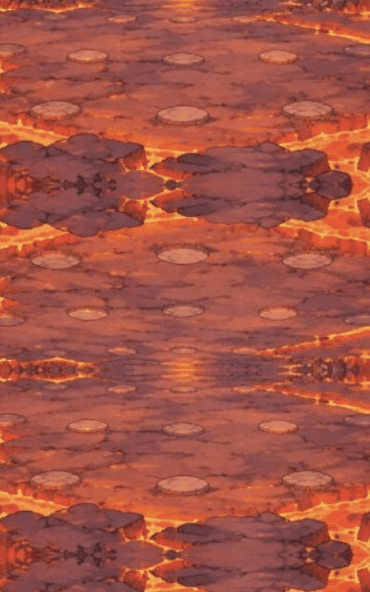
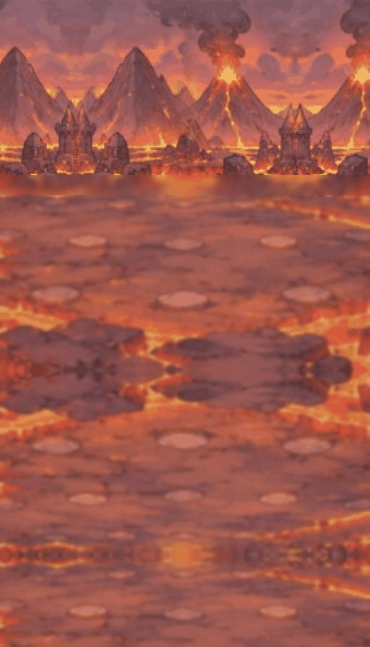
背景の絵から奥の城を消して景色を残し、飛び石・真ん中のマスをステージの石にする
Claude-Session: https://claude.ai/code/session_01NLXjHKkwQcWRgE1A8ZMVWa

diff --git a/js/ui/precache.js b/js/ui/precache.js
@@ -1,2 +1,2 @@
-self.CF_CACHE_VERSION="4372f12f24a9f2ce";
-self.CF_ASSETS=["index.html","manifest.webmanifest","css/accessibility.css","css/account.css","css/battle.css","css/beast.css","css/card-base.css","css/card-zoom.css","css/chat.css","css/coin-toss.css","css/components.css","css/deck.css","css/experience.css","css/finishing-art.css","css/fit.css","css/help-guide.css","css/hologram.css","css/home-tabs.css","css/home.css","css/kingdom.css","css/layout.css","css/mana-growth.css","css/materials.css","css/motion.css","css/mp.css","css/polish.css","css/rank-frames.css","css/rank-rewards.css","css/rarity-assets.css","css/rarity-fx.css","css/settings.css","css/stage.css","css/step5.css","css/style.css","css/text-fit.css","css/theme.css","css/tokens.css","css/tutorial.css","css/weather.css","js/game/Card.js","js/game/Castle.js","js/game/Game.js","js/game/Monster.js","js/game/Player.js","js/game/Road.js","js/game/Setup.js","js/game/Soldier.js","js/game/Stage.js","js/game/Weather.js","js/game/strategies.js","js/game/visibility.js","js/main.js","js/ui/Accessibility.js","js/ui/Account.js","js/ui/AccountPanel.js","js/ui/Animations.js","js/ui/BattleLayout.js","js/ui/Card3D.js","js/ui/CardGuide.js","js/ui/CardInfo.js","js/ui/CardRelief.js","js/ui/CardZoom.js","js/ui/ChatView.js","js/ui/CollectionView.js","js/ui/Cosmetics.js","js/ui/DebugPanel.js","js/ui/DeckEditor.js","js/ui/DeckPreview.js","js/ui/DeckStore.js","js/ui/HandView.js","js/ui/HelpView.js","js/ui/Hologram.js","js/ui/Home.js","js/ui/LocalSetup.js","js/ui/MatchStats.js","js/ui/MaterialSkin.js","js/ui/MissionView.js","js/ui/Music.js","js/ui/OnlineClient.js","js/ui/ProfileView.js","js/ui/ProgressPanel.js","js/ui/Progression.js","js/ui/RankEmblem.js","js/ui/RankRewardsView.js","js/ui/RankedView.js","js/ui/Renderer.js","js/ui/RoomView.js","js/ui/Session.js","js/ui/Settings.js","js/ui/SocialView.js","js/ui/Sound.js","js/ui/Targeting.js","js/ui/Tutorial.js","js/ui/UpgradePanel.js","js/ui/WeatherView.js","js/ui/art.js","js/ui/cardFrame.js","js/ui/cardView.js","js/ui/config.js","js/ui/handOrder.js","js/ui/look.js","js/ui/motion.js","js/ui/musicScene.js","js/ui/pills.js","js/ui/profileArt.js","js/ui/rarity.js","js/ui/skinArt.js","js/ui/stories.js","js/ui/syncCheck.js","js/ui/text.js","data/cards.json","data/castles.json","data/decks.json","data/gacha.json","data/missions.json","data/modes.json","data/monsters.json","data/profile.json","data/progression.json","data/ranks.json","data/rarities.json","data/rules.json","data/seasons.json","data/shop.json","data/stages.json","data/stamps.json","data/upgrades.json","data/weather.json","assets/asset-manifest.json","assets/bg/board-meadow-compact.png","assets/bg/board-meadow.png","assets/bg/board.png","assets/bg/home-castle.png","assets/bg/kingdom-meadow.png","assets/bg/kingdom-valley.png","assets/bg/stage-dark-forest.png","assets/bg/stage-ice.png","assets/bg/stage-lava.png","assets/bg/stage-meadow.png","assets/bg/stage-ruins.png","assets/bg/title-compact.png","assets/bg/title.png","assets/cards/card-absolute-zero.png","assets/cards/card-adapt.png","assets/cards/card-antidote.png","assets/cards/card-apocalypse.png","assets/cards/card-apprentice-archer.png","assets/cards/card-apprentice-mage.png","assets/cards/card-archer.png","assets/cards/card-archmage.png","assets/cards/card-barrier.png","assets/cards/card-beast-bat.png","assets/cards/card-beast-demon-king.png","assets/cards/card-beast-demon.png","assets/cards/card-beast-dragon.png","assets/cards/card-beast-ghost.png","assets/cards/card-beast-goblin.png","assets/cards/card-beast-golem.png","assets/cards/card-beast-mimic.png","assets/cards/card-beast-skeleton.png","assets/cards/card-beast-slime.png","assets/cards/card-beast-treant.png","assets/cards/card-beast-vampire.png","assets/cards/card-big-shield.png","assets/cards/card-big-thunder.png","assets/cards/card-blessing.png","assets/cards/card-bolt.png","assets/cards/card-cavalry.png","assets/cards/card-coin-pouch.png","assets/cards/card-death-mist.png","assets/cards/card-decoy.png","assets/cards/card-deep-freeze.png","assets/cards/card-dragon-knight.png","assets/cards/card-earth-hammer.png","assets/cards/card-earth-king.png","assets/cards/card-earth-spirit.png","assets/cards/card-fire-king.png","assets/cards/card-fire-spirit.png","assets/cards/card-fireball.png","assets/cards/card-flame-sword.png","assets/cards/card-frost-breath.png","assets/cards/card-frozen-world.png","assets/cards/card-gate.png","assets/cards/card-giant.png","assets/cards/card-glacier.png","assets/cards/card-god-shield.png","assets/cards/card-god-sword.png","assets/cards/card-goddess.png","assets/cards/card-gold-coin.png","assets/cards/card-gold-vein.png","assets/cards/card-great-earth-spirit.png","assets/cards/card-great-fire-spirit.png","assets/cards/card-great-heal.png","assets/cards/card-great-water-spirit.png","assets/cards/card-great-wind-spirit.png","assets/cards/card-heal.png","assets/cards/card-heavy.png","assets/cards/card-hero.png","assets/cards/card-holy-light.png","assets/cards/card-holy-shield.png","assets/cards/card-holy-sword.png","assets/cards/card-infantry.png","assets/cards/card-inferno.png","assets/cards/card-iron-sword.png","assets/cards/card-judgment.png","assets/cards/card-king-treasure.png","assets/cards/card-knight.png","assets/cards/card-longbowman.png","assets/cards/card-mage.png","assets/cards/card-magic-sword.png","assets/cards/card-mana-crystal.png","assets/cards/card-mana-drop.png","assets/cards/card-mana-shard.png","assets/cards/card-mana-spring.png","assets/cards/card-meteor.png","assets/cards/card-minor-heal.png","assets/cards/card-paladin.png","assets/cards/card-plague.png","assets/cards/card-poison-mist.png","assets/cards/card-prayer.png","assets/cards/card-raijin.png","assets/cards/card-reflect.png","assets/cards/card-sage.png","assets/cards/card-sandbag.png","assets/cards/card-scout.png","assets/cards/card-shield.png","assets/cards/card-sky-archer.png","assets/cards/card-sniper.png","assets/cards/card-sorcerer.png","assets/cards/card-spearman.png","assets/cards/card-starfall.png","assets/cards/card-steel-shield.png","assets/cards/card-stone-wall.png","assets/cards/card-thief.png","assets/cards/card-thunder.png","assets/cards/card-toxic-rain.png","assets/cards/card-treasure.png","assets/cards/card-venom.png","assets/cards/card-wall.png","assets/cards/card-water-king.png","assets/cards/card-water-spear.png","assets/cards/card-water-spirit.png","assets/cards/card-weather-call.png","assets/cards/card-wind-bow.png","assets/cards/card-wind-king.png","assets/cards/card-wind-spirit.png","assets/cards/card-world-tree-dew.png","assets/cards/frame-beast.png","assets/cards/frame-common.png","assets/cards/frame-epic.png","assets/cards/frame-legendary.png","assets/cards/frame-rare.png","assets/cards/frame-skin-bronze.png","assets/cards/frame-skin-champion.png","assets/cards/frame-skin-diamond.png","assets/cards/frame-skin-gold.png","assets/cards/frame-skin-iron.png","assets/cards/frame-skin-master.png","assets/cards/frame-skin-platinum.png","assets/cards/frame-skin-silver.png","assets/cards/frame-special.png","assets/cards/frame-uncommon.png","assets/cards/relief/frame-beast-raised.png","assets/cards/relief/frame-beast-relief.png","assets/cards/relief/frame-common-raised.png","assets/cards/relief/frame-common-relief.png","assets/cards/relief/frame-epic-raised.png","assets/cards/relief/frame-epic-relief.png","assets/cards/relief/frame-legendary-raised.png","assets/cards/relief/frame-legendary-relief.png","assets/cards/relief/frame-rare-raised.png","assets/cards/relief/frame-rare-relief.png","assets/cards/relief/frame-skin-bronze-raised.png","assets/cards/relief/frame-skin-bronze-relief.png","assets/cards/relief/frame-skin-champion-raised.png","assets/cards/relief/frame-skin-champion-relief.png","assets/cards/relief/frame-skin-diamond-raised.png","assets/cards/relief/frame-skin-diamond-relief.png","assets/cards/relief/frame-skin-gold-raised.png","assets/cards/relief/frame-skin-gold-relief.png","assets/cards/relief/frame-skin-iron-raised.png","assets/cards/relief/frame-skin-iron-relief.png","assets/cards/relief/frame-skin-master-raised.png","assets/cards/relief/frame-skin-master-relief.png","assets/cards/relief/frame-skin-platinum-raised.png","assets/cards/relief/frame-skin-platinum-relief.png","assets/cards/relief/frame-skin-silver-raised.png","assets/cards/relief/frame-skin-silver-relief.png","assets/cards/relief/frame-special-raised.png","assets/cards/relief/frame-special-relief.png","assets/cards/relief/frame-uncommon-raised.png","assets/cards/relief/frame-uncommon-relief.png","assets/cards/window-beast.png","assets/cards/window-common.png","assets/cards/window-epic.png","assets/cards/window-legendary.png","assets/cards/window-rare.png","assets/cards/window-special.png","assets/cards/window-uncommon.png","assets/castles/barracks-blue-damaged-1.png","assets/castles/barracks-blue-damaged-2.png","assets/castles/barracks-blue-damaged-3.png","assets/castles/barracks-blue.png","assets/castles/barracks-orange-damaged-1.png","assets/castles/barracks-orange-damaged-2.png","assets/castles/barracks-orange-damaged-3.png","assets/castles/barracks-orange.png","assets/castles/castle-blue-damaged-1.png","assets/castles/castle-blue-damaged-2.png","assets/castles/castle-blue-damaged-3.png","assets/castles/castle-blue-ruined.png","assets/castles/castle-blue.png","assets/castles/castle-orange-damaged-1.png","assets/castles/castle-orange-damaged-2.png","assets/castles/castle-orange-damaged-3.png","assets/castles/castle-orange-ruined.png","assets/castles/castle-orange.png","assets/castles/fortress-blue-damaged-1.png","assets/castles/fortress-blue-damaged-2.png","assets/castles/fortress-blue-damaged-3.png","assets/castles/fortress-blue.png","assets/castles/fortress-orange-damaged-1.png","assets/castles/fortress-orange-damaged-2.png","assets/castles/fortress-orange-damaged-3.png","assets/castles/fortress-orange.png","assets/castles/tower-blue-damaged-1.png","assets/castles/tower-blue-damaged-2.png","assets/castles/tower-blue-damaged-3.png","assets/castles/tower-blue.png","assets/castles/tower-orange-damaged-1.png","assets/castles/tower-orange-damaged-2.png","assets/castles/tower-orange-damaged-3.png","assets/castles/tower-orange.png","assets/frames/rank-frame-bronze.png","assets/frames/rank-frame-champion.png","assets/frames/rank-frame-diamond.png","assets/frames/rank-frame-gold.png","assets/frames/rank-frame-iron.png","assets/frames/rank-frame-master.png","assets/frames/rank-frame-platinum.png","assets/frames/rank-frame-silver.png","assets/fx/dust.png","assets/fx/evolve-1.png","assets/fx/evolve-2.png","assets/fx/evolve-3.png","assets/fx/explosion.png","assets/fx/fireball.png","assets/fx/fusion.png","assets/fx/heal.png","assets/fx/ice.png","assets/fx/lightning.png","assets/fx/lucky-reward.png","assets/fx/poison.png","assets/profiles/archer.png","assets/profiles/hero.png","assets/profiles/infantry.png","assets/profiles/knight.png","assets/profiles/mage.png","assets/profiles/spearman.png","assets/ranks/rank-bronze.png","assets/ranks/rank-champion.png","assets/ranks/rank-diamond.png","assets/ranks/rank-gold.png","assets/ranks/rank-iron.png","assets/ranks/rank-master.png","assets/ranks/rank-platinum.png","assets/ranks/rank-silver.png","assets/skins/back-crimson-raised.png","assets/skins/back-crimson.png","assets/skins/back-forest-raised.png","assets/skins/back-forest.png","assets/skins/back-gold-raised.png","assets/skins/back-gold.png","assets/skins/back-rank-bronze-raised.png","assets/skins/back-rank-bronze.png","assets/skins/back-rank-champion-raised.png","assets/skins/back-rank-champion.png","assets/skins/back-rank-diamond-raised.png","assets/skins/back-rank-diamond.png","assets/skins/back-rank-gold-raised.png","assets/skins/back-rank-gold.png","assets/skins/back-rank-iron-raised.png","assets/skins/back-rank-iron.png","assets/skins/back-rank-master-raised.png","assets/skins/back-rank-master.png","assets/skins/back-rank-platinum-raised.png","assets/skins/back-rank-platinum.png","assets/skins/back-rank-silver-raised.png","assets/skins/back-rank-silver.png","assets/skins/back-royal-raised.png","assets/skins/back-royal.png","assets/skins/castle-crimson.png","assets/skins/castle-forest.png","assets/skins/castle-frost.png","assets/skins/castle-gold.png","assets/skins/castle-shadow.png","assets/skins/fx-azure.png","assets/skins/fx-emerald.png","assets/skins/fx-gold.png","assets/skins/fx-violet.png","assets/skins/icon-dragon-knight.png","assets/skins/icon-giant.png","assets/skins/icon-paladin.png","assets/skins/icon-sage.png","assets/skins/icon-scout.png","assets/skins/icon-sniper.png","assets/skins/title-hunter.png","assets/skins/title-legend.png","assets/skins/title-lucky.png","assets/skins/title-rookie.png","assets/skins/title-wall.png","assets/skins/unit-crimson.png","assets/skins/unit-forest.png","assets/skins/unit-frost.png","assets/skins/unit-gold.png","assets/skins/unit-royal.png","assets/skins/unit-shadow.png","assets/skins/win-aurora.png","assets/skins/win-gold.png","assets/skins/win-sakura.png","assets/ui/app-icon-192.png","assets/ui/app-icon-512.png","assets/ui/app-icon-maskable-512.png","assets/ui/apple-touch-icon.png","assets/ui/banner-win.png","assets/ui/btn-blue.png","assets/ui/btn-cream.png","assets/ui/btn-green.png","assets/ui/btn-orange.png","assets/ui/btn-red.png","assets/ui/btn-round.png","assets/ui/button-end-turn.png","assets/ui/card-back.png","assets/ui/home/casual.png","assets/ui/home/catalog.png","assets/ui/home/deck.png","assets/ui/home/friend.png","assets/ui/home/gacha.png","assets/ui/home/mission.png","assets/ui/home/profile.png","assets/ui/home/rank.png","assets/ui/home/ranking.png","assets/ui/home/settings.png","assets/ui/home/shop.png","assets/ui/home/skin.png","assets/ui/icon-coin.png","assets/ui/icon-earth.png","assets/ui/icon-fire.png","assets/ui/icon-heart.png","assets/ui/icon-help.png","assets/ui/icon-kind-defense.png","assets/ui/icon-kind-soldier.png","assets/ui/icon-kind-spell.png","assets/ui/icon-kind-weapon.png","assets/ui/icon-kind-wild.png","assets/ui/icon-luck.png","assets/ui/icon-mode-local.png","assets/ui/icon-mode-online.png","assets/ui/icon-mode-solo.png","assets/ui/icon-mp.png","assets/ui/icon-rarity-common.png","assets/ui/icon-rarity-epic.png","assets/ui/icon-rarity-legendary.png","assets/ui/icon-rarity-rare.png","assets/ui/icon-rarity-special.png","assets/ui/icon-rarity-uncommon.png","assets/ui/icon-water.png","assets/ui/icon-wind.png","assets/ui/kingdom-crest.png","assets/ui/kingdom-parchment.png","assets/ui/kingdom-platform.png","assets/ui/kingdom-primary.png","assets/ui/kingdom-secondary.png","assets/ui/kingdom-wood.png","assets/ui/logo.png","assets/ui/natural/danger-40-left.png","assets/ui/natural/danger-40-middle.png","assets/ui/natural/danger-40-right.png","assets/ui/natural/danger-44-left.png","assets/ui/natural/danger-44-middle.png","assets/ui/natural/danger-44-right.png","assets/ui/natural/danger-72-left.png","assets/ui/natural/danger-72-middle.png","assets/ui/natural/danger-72-right.png","assets/ui/natural/frame.png","assets/ui/natural/leather-tile.png","assets/ui/natural/neutral-40-left.png","assets/ui/natural/neutral-40-middle.png","assets/ui/natural/neutral-40-right.png","assets/ui/natural/neutral-44-left.png","assets/ui/natural/neutral-44-middle.png","assets/ui/natural/neutral-44-right.png","assets/ui/natural/neutral-72-left.png","assets/ui/natural/neutral-72-middle.png","assets/ui/natural/neutral-72-right.png","assets/ui/natural/neutral-wide-full.png","assets/ui/natural/oak-tile.png","assets/ui/natural/paper-tile.png","assets/ui/natural/primary-40-left.png","assets/ui/natural/primary-40-middle.png","assets/ui/natural/primary-40-right.png","assets/ui/natural/primary-44-left.png","assets/ui/natural/primary-44-middle.png","assets/ui/natural/primary-44-right.png","assets/ui/natural/primary-72-left.png","assets/ui/natural/primary-72-middle.png","assets/ui/natural/primary-72-right.png","assets/ui/natural/primary-wide-full.png","assets/ui/natural/round-neutral.png","assets/ui/natural/round-selected.png","assets/ui/natural/selected-40-left.png","assets/ui/natural/selected-40-middle.png","assets/ui/natural/selected-40-right.png","assets/ui/natural/selected-44-left.png","assets/ui/natural/selected-44-middle.png","assets/ui/natural/selected-44-right.png","assets/ui/natural/selected-72-left.png","assets/ui/natural/selected-72-middle.png","assets/ui/natural/selected-72-right.png","assets/ui/panel-parchment.png","assets/ui/result-defeat.png","assets/ui/result-victory.png","assets/ui/sign-hp.png","assets/ui/stamps/again.png","assets/ui/stamps/gg.png","assets/ui/stamps/go.png","assets/ui/stamps/hello.png","assets/ui/stamps/nice.png","assets/ui/stamps/ouch.png","assets/ui/stamps/scared.png","assets/ui/stamps/smug.png","assets/ui/stamps/sorry.png","assets/ui/stamps/thanks.png","assets/ui/stamps/think.png","assets/ui/stamps/yay.png","assets/ui/tap-plate.png","assets/ui/title-castle-blue.png","assets/ui/title-castle-orange.png","assets/ui/title-infantry-orange.png","assets/ui/title-knight-blue.png","assets/ui/weather-coin-rain.png","assets/ui/weather-fog.png","assets/ui/weather-heavy-rain.png","assets/ui/weather-rain.png","assets/ui/weather-sandstorm.png","assets/ui/weather-storm.png","assets/ui/weather-sunny.png","assets/units/apprentice-archer-blue.png","assets/units/apprentice-archer-orange.png","assets/units/apprentice-mage-blue.png","assets/units/apprentice-mage-orange.png","assets/units/archer-blue.png","assets/units/archer-orange.png","assets/units/archmage-blue.png","assets/units/archmage-orange.png","assets/units/cavalry-blue.png","assets/units/cavalry-orange.png","assets/units/dragon-knight-blue.png","assets/units/dragon-knight-orange.png","assets/units/earth-spirit.png","assets/units/fire-spirit.png","assets/units/giant-blue.png","assets/units/giant-orange.png","assets/units/great-earth-spirit.png","assets/units/great-fire-spirit.png","assets/units/great-water-spirit.png","assets/units/great-wind-spirit.png","assets/units/heavy-blue.png","assets/units/heavy-orange.png","assets/units/hero-blue.png","assets/units/hero-orange.png","assets/units/infantry-blue.png","assets/units/infantry-orange.png","assets/units/knight-blue.png","assets/units/knight-orange.png","assets/units/longbowman-blue.png","assets/units/longbowman-orange.png","assets/units/mage-blue.png","assets/units/mage-orange.png","assets/units/monster-bat.png","assets/units/monster-demon-king.png","assets/units/monster-demon.png","assets/units/monster-dragon.png","assets/units/monster-ghost.png","assets/units/monster-goblin.png","assets/units/monster-golem.png","assets/units/monster-mimic.png","assets/units/monster-skeleton.png","assets/units/monster-slime.png","assets/units/monster-treant.png","assets/units/monster-vampire.png","assets/units/paladin-blue.png","assets/units/paladin-orange.png","assets/units/sage-blue.png","assets/units/sage-orange.png","assets/units/scout-blue.png","assets/units/scout-orange.png","assets/units/sky-archer-blue.png","assets/units/sky-archer-orange.png","assets/units/sniper-blue.png","assets/units/sniper-orange.png","assets/units/sorcerer-blue.png","assets/units/sorcerer-orange.png","assets/units/spearman-blue.png","assets/units/spearman-orange.png","assets/units/water-spirit.png","assets/units/wind-spirit.png"];
+self.CF_CACHE_VERSION="d608d57e7a2001c9";
+self.CF_ASSETS=["index.html","manifest.webmanifest","css/accessibility.css","css/account.css","css/battle.css","css/beast.css","css/card-base.css","css/card-zoom.css","css/chat.css","css/coin-toss.css","css/components.css","css/deck.css","css/experience.css","css/finishing-art.css","css/fit.css","css/help-guide.css","css/hologram.css","css/home-tabs.css","css/home.css","css/kingdom.css","css/layout.css","css/mana-growth.css","css/materials.css","css/motion.css","css/mp.css","css/polish.css","css/rank-frames.css","css/rank-rewards.css","css/rarity-assets.css","css/rarity-fx.css","css/settings.css","css/stage.css","css/step5.css","css/style.css","css/text-fit.css","css/theme.css","css/tokens.css","css/tutorial.css","css/weather.css","js/game/Card.js","js/game/Castle.js","js/game/Game.js","js/game/Monster.js","js/game/Player.js","js/game/Road.js","js/game/Setup.js","js/game/Soldier.js","js/game/Stage.js","js/game/Weather.js","js/game/strategies.js","js/game/visibility.js","js/main.js","js/ui/Accessibility.js","js/ui/Account.js","js/ui/AccountPanel.js","js/ui/Animations.js","js/ui/BattleLayout.js","js/ui/Card3D.js","js/ui/CardGuide.js","js/ui/CardInfo.js","js/ui/CardRelief.js","js/ui/CardZoom.js","js/ui/ChatView.js","js/ui/CollectionView.js","js/ui/Cosmetics.js","js/ui/DebugPanel.js","js/ui/DeckEditor.js","js/ui/DeckPreview.js","js/ui/DeckStore.js","js/ui/HandView.js","js/ui/HelpView.js","js/ui/Hologram.js","js/ui/Home.js","js/ui/LocalSetup.js","js/ui/MatchStats.js","js/ui/MaterialSkin.js","js/ui/MissionView.js","js/ui/Music.js","js/ui/OnlineClient.js","js/ui/ProfileView.js","js/ui/ProgressPanel.js","js/ui/Progression.js","js/ui/RankEmblem.js","js/ui/RankRewardsView.js","js/ui/RankedView.js","js/ui/Renderer.js","js/ui/RoomView.js","js/ui/Session.js","js/ui/Settings.js","js/ui/SocialView.js","js/ui/Sound.js","js/ui/Targeting.js","js/ui/Tutorial.js","js/ui/UpgradePanel.js","js/ui/WeatherView.js","js/ui/art.js","js/ui/cardFrame.js","js/ui/cardView.js","js/ui/config.js","js/ui/handOrder.js","js/ui/look.js","js/ui/motion.js","js/ui/musicScene.js","js/ui/pills.js","js/ui/profileArt.js","js/ui/rarity.js","js/ui/skinArt.js","js/ui/stories.js","js/ui/syncCheck.js","js/ui/text.js","data/cards.json","data/castles.json","data/decks.json","data/gacha.json","data/missions.json","data/modes.json","data/monsters.json","data/profile.json","data/progression.json","data/ranks.json","data/rarities.json","data/rules.json","data/seasons.json","data/shop.json","data/stages.json","data/stamps.json","data/upgrades.json","data/weather.json","assets/asset-manifest.json","assets/bg/board-meadow-compact.png","assets/bg/board-meadow.png","assets/bg/board.png","assets/bg/home-castle.png","assets/bg/kingdom-meadow.png","assets/bg/kingdom-valley.png","assets/bg/stage-dark-forest.png","assets/bg/stage-ice.png","assets/bg/stage-lava.png","assets/bg/stage-meadow.png","assets/bg/stage-ruins.png","assets/bg/title-compact.png","assets/bg/title.png","assets/cards/card-absolute-zero.png","assets/cards/card-adapt.png","assets/cards/card-antidote.png","assets/cards/card-apocalypse.png","assets/cards/card-apprentice-archer.png","assets/cards/card-apprentice-mage.png","assets/cards/card-archer.png","assets/cards/card-archmage.png","assets/cards/card-barrier.png","assets/cards/card-beast-bat.png","assets/cards/card-beast-demon-king.png","assets/cards/card-beast-demon.png","assets/cards/card-beast-dragon.png","assets/cards/card-beast-ghost.png","assets/cards/card-beast-goblin.png","assets/cards/card-beast-golem.png","assets/cards/card-beast-mimic.png","assets/cards/card-beast-skeleton.png","assets/cards/card-beast-slime.png","assets/cards/card-beast-treant.png","assets/cards/card-beast-vampire.png","assets/cards/card-big-shield.png","assets/cards/card-big-thunder.png","assets/cards/card-blessing.png","assets/cards/card-bolt.png","assets/cards/card-cavalry.png","assets/cards/card-coin-pouch.png","assets/cards/card-death-mist.png","assets/cards/card-decoy.png","assets/cards/card-deep-freeze.png","assets/cards/card-dragon-knight.png","assets/cards/card-earth-hammer.png","assets/cards/card-earth-king.png","assets/cards/card-earth-spirit.png","assets/cards/card-fire-king.png","assets/cards/card-fire-spirit.png","assets/cards/card-fireball.png","assets/cards/card-flame-sword.png","assets/cards/card-frost-breath.png","assets/cards/card-frozen-world.png","assets/cards/card-gate.png","assets/cards/card-giant.png","assets/cards/card-glacier.png","assets/cards/card-god-shield.png","assets/cards/card-god-sword.png","assets/cards/card-goddess.png","assets/cards/card-gold-coin.png","assets/cards/card-gold-vein.png","assets/cards/card-great-earth-spirit.png","assets/cards/card-great-fire-spirit.png","assets/cards/card-great-heal.png","assets/cards/card-great-water-spirit.png","assets/cards/card-great-wind-spirit.png","assets/cards/card-heal.png","assets/cards/card-heavy.png","assets/cards/card-hero.png","assets/cards/card-holy-light.png","assets/cards/card-holy-shield.png","assets/cards/card-holy-sword.png","assets/cards/card-infantry.png","assets/cards/card-inferno.png","assets/cards/card-iron-sword.png","assets/cards/card-judgment.png","assets/cards/card-king-treasure.png","assets/cards/card-knight.png","assets/cards/card-longbowman.png","assets/cards/card-mage.png","assets/cards/card-magic-sword.png","assets/cards/card-mana-crystal.png","assets/cards/card-mana-drop.png","assets/cards/card-mana-shard.png","assets/cards/card-mana-spring.png","assets/cards/card-meteor.png","assets/cards/card-minor-heal.png","assets/cards/card-paladin.png","assets/cards/card-plague.png","assets/cards/card-poison-mist.png","assets/cards/card-prayer.png","assets/cards/card-raijin.png","assets/cards/card-reflect.png","assets/cards/card-sage.png","assets/cards/card-sandbag.png","assets/cards/card-scout.png","assets/cards/card-shield.png","assets/cards/card-sky-archer.png","assets/cards/card-sniper.png","assets/cards/card-sorcerer.png","assets/cards/card-spearman.png","assets/cards/card-starfall.png","assets/cards/card-steel-shield.png","assets/cards/card-stone-wall.png","assets/cards/card-thief.png","assets/cards/card-thunder.png","assets/cards/card-toxic-rain.png","assets/cards/card-treasure.png","assets/cards/card-venom.png","assets/cards/card-wall.png","assets/cards/card-water-king.png","assets/cards/card-water-spear.png","assets/cards/card-water-spirit.png","assets/cards/card-weather-call.png","assets/cards/card-wind-bow.png","assets/cards/card-wind-king.png","assets/cards/card-wind-spirit.png","assets/cards/card-world-tree-dew.png","assets/cards/frame-beast.png","assets/cards/frame-common.png","assets/cards/frame-epic.png","assets/cards/frame-legendary.png","assets/cards/frame-rare.png","assets/cards/frame-skin-bronze.png","assets/cards/frame-skin-champion.png","assets/cards/frame-skin-diamond.png","assets/cards/frame-skin-gold.png","assets/cards/frame-skin-iron.png","assets/cards/frame-skin-master.png","assets/cards/frame-skin-platinum.png","assets/cards/frame-skin-silver.png","assets/cards/frame-special.png","assets/cards/frame-uncommon.png","assets/cards/relief/frame-beast-raised.png","assets/cards/relief/frame-beast-relief.png","assets/cards/relief/frame-common-raised.png","assets/cards/relief/frame-common-relief.png","assets/cards/relief/frame-epic-raised.png","assets/cards/relief/frame-epic-relief.png","assets/cards/relief/frame-legendary-raised.png","assets/cards/relief/frame-legendary-relief.png","assets/cards/relief/frame-rare-raised.png","assets/cards/relief/frame-rare-relief.png","assets/cards/relief/frame-skin-bronze-raised.png","assets/cards/relief/frame-skin-bronze-relief.png","assets/cards/relief/frame-skin-champion-raised.png","assets/cards/relief/frame-skin-champion-relief.png","assets/cards/relief/frame-skin-diamond-raised.png","assets/cards/relief/frame-skin-diamond-relief.png","assets/cards/relief/frame-skin-gold-raised.png","assets/cards/relief/frame-skin-gold-relief.png","assets/cards/relief/frame-skin-iron-raised.png","assets/cards/relief/frame-skin-iron-relief.png","assets/cards/relief/frame-skin-master-raised.png","assets/cards/relief/frame-skin-master-relief.png","assets/cards/relief/frame-skin-platinum-raised.png","assets/cards/relief/frame-skin-platinum-relief.png","assets/cards/relief/frame-skin-silver-raised.png","assets/cards/relief/frame-skin-silver-relief.png","assets/cards/relief/frame-special-raised.png","assets/cards/relief/frame-special-relief.png","assets/cards/relief/frame-uncommon-raised.png","assets/cards/relief/frame-uncommon-relief.png","assets/cards/window-beast.png","assets/cards/window-common.png","assets/cards/window-epic.png","assets/cards/window-legendary.png","assets/cards/window-rare.png","assets/cards/window-special.png","assets/cards/window-uncommon.png","assets/castles/barracks-blue-damaged-1.png","assets/castles/barracks-blue-damaged-2.png","assets/castles/barracks-blue-damaged-3.png","assets/castles/barracks-blue.png","assets/castles/barracks-orange-damaged-1.png","assets/castles/barracks-orange-damaged-2.png","assets/castles/barracks-orange-damaged-3.png","assets/castles/barracks-orange.png","assets/castles/castle-blue-damaged-1.png","assets/castles/castle-blue-damaged-2.png","assets/castles/castle-blue-damaged-3.png","assets/castles/castle-blue-ruined.png","assets/castles/castle-blue.png","assets/castles/castle-orange-damaged-1.png","assets/castles/castle-orange-damaged-2.png","assets/castles/castle-orange-damaged-3.png","assets/castles/castle-orange-ruined.png","assets/castles/castle-orange.png","assets/castles/fortress-blue-damaged-1.png","assets/castles/fortress-blue-damaged-2.png","assets/castles/fortress-blue-damaged-3.png","assets/castles/fortress-blue.png","assets/castles/fortress-orange-damaged-1.png","assets/castles/fortress-orange-damaged-2.png","assets/castles/fortress-orange-damaged-3.png","assets/castles/fortress-orange.png","assets/castles/tower-blue-damaged-1.png","assets/castles/tower-blue-damaged-2.png","assets/castles/tower-blue-damaged-3.png","assets/castles/tower-blue.png","assets/castles/tower-orange-damaged-1.png","assets/castles/tower-orange-damaged-2.png","assets/castles/tower-orange-damaged-3.png","assets/castles/tower-orange.png","assets/frames/rank-frame-bronze.png","assets/frames/rank-frame-champion.png","assets/frames/rank-frame-diamond.png","assets/frames/rank-frame-gold.png","assets/frames/rank-frame-iron.png","assets/frames/rank-frame-master.png","assets/frames/rank-frame-platinum.png","assets/frames/rank-frame-silver.png","assets/fx/dust.png","assets/fx/evolve-1.png","assets/fx/evolve-2.png","assets/fx/evolve-3.png","assets/fx/explosion.png","assets/fx/fireball.png","assets/fx/fusion.png","assets/fx/heal.png","assets/fx/ice.png","assets/fx/lightning.png","assets/fx/lucky-reward.png","assets/fx/poison.png","assets/profiles/archer.png","assets/profiles/hero.png","assets/profiles/infantry.png","assets/profiles/knight.png","assets/profiles/mage.png","assets/profiles/spearman.png","assets/ranks/rank-bronze.png","assets/ranks/rank-champion.png","assets/ranks/rank-diamond.png","assets/ranks/rank-gold.png","assets/ranks/rank-iron.png","assets/ranks/rank-master.png","assets/ranks/rank-platinum.png","assets/ranks/rank-silver.png","assets/skins/back-crimson-raised.png","assets/skins/back-crimson.png","assets/skins/back-forest-raised.png","assets/skins/back-forest.png","assets/skins/back-gold-raised.png","assets/skins/back-gold.png","assets/skins/back-rank-bronze-raised.png","assets/skins/back-rank-bronze.png","assets/skins/back-rank-champion-raised.png","assets/skins/back-rank-champion.png","assets/skins/back-rank-diamond-raised.png","assets/skins/back-rank-diamond.png","assets/skins/back-rank-gold-raised.png","assets/skins/back-rank-gold.png","assets/skins/back-rank-iron-raised.png","assets/skins/back-rank-iron.png","assets/skins/back-rank-master-raised.png","assets/skins/back-rank-master.png","assets/skins/back-rank-platinum-raised.png","assets/skins/back-rank-platinum.png","assets/skins/back-rank-silver-raised.png","assets/skins/back-rank-silver.png","assets/skins/back-royal-raised.png","assets/skins/back-royal.png","assets/skins/castle-crimson.png","assets/skins/castle-forest.png","assets/skins/castle-frost.png","assets/skins/castle-gold.png","assets/skins/castle-shadow.png","assets/skins/fx-azure.png","assets/skins/fx-emerald.png","assets/skins/fx-gold.png","assets/skins/fx-violet.png","assets/skins/icon-dragon-knight.png","assets/skins/icon-giant.png","assets/skins/icon-paladin.png","assets/skins/icon-sage.png","assets/skins/icon-scout.png","assets/skins/icon-sniper.png","assets/skins/title-hunter.png","assets/skins/title-legend.png","assets/skins/title-lucky.png","assets/skins/title-rookie.png","assets/skins/title-wall.png","assets/skins/unit-crimson.png","assets/skins/unit-forest.png","assets/skins/unit-frost.png","assets/skins/unit-gold.png","assets/skins/unit-royal.png","assets/skins/unit-shadow.png","assets/skins/win-aurora.png","assets/skins/win-gold.png","assets/skins/win-sakura.png","assets/ui/app-icon-192.png","assets/ui/app-icon-512.png","assets/ui/app-icon-maskable-512.png","assets/ui/apple-touch-icon.png","assets/ui/banner-win.png","assets/ui/btn-blue.png","assets/ui/btn-cream.png","assets/ui/btn-green.png","assets/ui/btn-orange.png","assets/ui/btn-red.png","assets/ui/btn-round.png","assets/ui/button-end-turn.png","assets/ui/card-back.png","assets/ui/home/casual.png","assets/ui/home/catalog.png","assets/ui/home/deck.png","assets/ui/home/friend.png","assets/ui/home/gacha.png","assets/ui/home/mission.png","assets/ui/home/profile.png","assets/ui/home/rank.png","assets/ui/home/ranking.png","assets/ui/home/settings.png","assets/ui/home/shop.png","assets/ui/home/skin.png","assets/ui/icon-coin.png","assets/ui/icon-earth.png","assets/ui/icon-fire.png","assets/ui/icon-heart.png","assets/ui/icon-help.png","assets/ui/icon-kind-defense.png","assets/ui/icon-kind-soldier.png","assets/ui/icon-kind-spell.png","assets/ui/icon-kind-weapon.png","assets/ui/icon-kind-wild.png","assets/ui/icon-luck.png","assets/ui/icon-mode-local.png","assets/ui/icon-mode-online.png","assets/ui/icon-mode-solo.png","assets/ui/icon-mp.png","assets/ui/icon-rarity-common.png","assets/ui/icon-rarity-epic.png","assets/ui/icon-rarity-legendary.png","assets/ui/icon-rarity-rare.png","assets/ui/icon-rarity-special.png","assets/ui/icon-rarity-uncommon.png","assets/ui/icon-water.png","assets/ui/icon-wind.png","assets/ui/kingdom-crest.png","assets/ui/kingdom-parchment.png","assets/ui/kingdom-platform.png","assets/ui/kingdom-primary.png","assets/ui/kingdom-secondary.png","assets/ui/kingdom-wood.png","assets/ui/logo.png","assets/ui/natural/danger-40-left.png","assets/ui/natural/danger-40-middle.png","assets/ui/natural/danger-40-right.png","assets/ui/natural/danger-44-left.png","assets/ui/natural/danger-44-middle.png","assets/ui/natural/danger-44-right.png","assets/ui/natural/danger-72-left.png","assets/ui/natural/danger-72-middle.png","assets/ui/natural/danger-72-right.png","assets/ui/natural/frame.png","assets/ui/natural/leather-tile.png","assets/ui/natural/neutral-40-left.png","assets/ui/natural/neutral-40-middle.png","assets/ui/natural/neutral-40-right.png","assets/ui/natural/neutral-44-left.png","assets/ui/natural/neutral-44-middle.png","assets/ui/natural/neutral-44-right.png","assets/ui/natural/neutral-72-left.png","assets/ui/natural/neutral-72-middle.png","assets/ui/natural/neutral-72-right.png","assets/ui/natural/neutral-wide-full.png","assets/ui/natural/oak-tile.png","assets/ui/natural/paper-tile.png","assets/ui/natural/primary-40-left.png","assets/ui/natural/primary-40-middle.png","assets/ui/natural/primary-40-right.png","assets/ui/natural/primary-44-left.png","assets/ui/natural/primary-44-middle.png","assets/ui/natural/primary-44-right.png","assets/ui/natural/primary-72-left.png","assets/ui/natural/primary-72-middle.png","assets/ui/natural/primary-72-right.png","assets/ui/natural/primary-wide-full.png","assets/ui/natural/round-neutral.png","assets/ui/natural/round-selected.png","assets/ui/natural/selected-40-left.png","assets/ui/natural/selected-40-middle.png","assets/ui/natural/selected-40-right.png","assets/ui/natural/selected-44-left.png","assets/ui/natural/selected-44-middle.png","assets/ui/natural/selected-44-right.png","assets/ui/natural/selected-72-left.png","assets/ui/natural/selected-72-middle.png","assets/ui/natural/selected-72-right.png","assets/ui/panel-parchment.png","assets/ui/result-defeat.png","assets/ui/result-victory.png","assets/ui/sign-hp.png","assets/ui/stamps/again.png","assets/ui/stamps/gg.png","assets/ui/stamps/go.png","assets/ui/stamps/hello.png","assets/ui/stamps/nice.png","assets/ui/stamps/ouch.png","assets/ui/stamps/scared.png","assets/ui/stamps/smug.png","assets/ui/stamps/sorry.png","assets/ui/stamps/thanks.png","assets/ui/stamps/think.png","assets/ui/stamps/yay.png","assets/ui/stone-dark-forest.png","assets/ui/stone-ice.png","assets/ui/stone-lava.png","assets/ui/stone-meadow.png","assets/ui/stone-ruins.png","assets/ui/tap-plate.png","assets/ui/title-castle-blue.png","assets/ui/title-castle-orange.png","assets/ui/title-infantry-orange.png","assets/ui/title-knight-blue.png","assets/ui/weather-coin-rain.png","assets/ui/weather-fog.png","assets/ui/weather-heavy-rain.png","assets/ui/weather-rain.png","assets/ui/weather-sandstorm.png","assets/ui/weather-storm.png","assets/ui/weather-sunny.png","assets/units/apprentice-archer-blue.png","assets/units/apprentice-archer-orange.png","assets/units/apprentice-mage-blue.png","assets/units/apprentice-mage-orange.png","assets/units/archer-blue.png","assets/units/archer-orange.png","assets/units/archmage-blue.png","assets/units/archmage-orange.png","assets/units/cavalry-blue.png","assets/units/cavalry-orange.png","assets/units/dragon-knight-blue.png","assets/units/dragon-knight-orange.png","assets/units/earth-spirit.png","assets/units/fire-spirit.png","assets/units/giant-blue.png","assets/units/giant-orange.png","assets/units/great-earth-spirit.png","assets/units/great-fire-spirit.png","assets/units/great-water-spirit.png","assets/units/great-wind-spirit.png","assets/units/heavy-blue.png","assets/units/heavy-orange.png","assets/units/hero-blue.png","assets/units/hero-orange.png","assets/units/infantry-blue.png","assets/units/infantry-orange.png","assets/units/knight-blue.png","assets/units/knight-orange.png","assets/units/longbowman-blue.png","assets/units/longbowman-orange.png","assets/units/mage-blue.png","assets/units/mage-orange.png","assets/units/monster-bat.png","assets/units/monster-demon-king.png","assets/units/monster-demon.png","assets/units/monster-dragon.png","assets/units/monster-ghost.png","assets/units/monster-goblin.png","assets/units/monster-golem.png","assets/units/monster-mimic.png","assets/units/monster-skeleton.png","assets/units/monster-slime.png","assets/units/monster-treant.png","assets/units/monster-vampire.png","assets/units/paladin-blue.png","assets/units/paladin-orange.png","assets/units/sage-blue.png","assets/units/sage-orange.png","assets/units/scout-blue.png","assets/units/scout-orange.png","assets/units/sky-archer-blue.png","assets/units/sky-archer-orange.png","assets/units/sniper-blue.png","assets/units/sniper-orange.png","assets/units/sorcerer-blue.png","assets/units/sorcerer-orange.png","assets/units/spearman-blue.png","assets/units/spearman-orange.png","assets/units/water-spirit.png","assets/units/wind-spirit.png"];

diff --git a/css/stage.css b/css/stage.css
@@ -72,11 +72,22 @@
 #app[data-stage="ice"] { --stage-ground: #b5cbf2; }
 #app[data-stage="lava"] { --stage-ground: #904a45; }
 #app[data-stage][data-stage-art] #scenery .tree { display: none; }
+/* 飛び石：そのステージの絵から切り出した石（assets/ui/stone-<ステージ>.png）を、道にぴったり合わせて並べる */
+#app[data-stage][data-stage-art] #road .stone {
+  display: block; width: 50%; height: 30%; opacity: 1; filter: drop-shadow(0 2px 2px #0000004d);
+  background: var(--stage-stone) center / 100% 100% no-repeat; border: 0; box-shadow: none;
+}
+#app[data-stage="meadow"] { --stage-stone: url("../assets/ui/stone-meadow.png"); --stage-glow: #fff3b0; }
+#app[data-stage="ruins"] { --stage-stone: url("../assets/ui/stone-ruins.png"); --stage-glow: #9fd8ff; }
+#app[data-stage="darkForest"] { --stage-stone: url("../assets/ui/stone-dark-forest.png"); --stage-glow: #b98cff; }
+#app[data-stage="ice"] { --stage-stone: url("../assets/ui/stone-ice.png"); --stage-glow: #d6f2ff; }
+#app[data-stage="lava"] { --stage-stone: url("../assets/ui/stone-lava.png"); --stage-glow: #ff8a3d; }
+/* 真ん中のマス（魔物・ワールドボスの場所）：同じ石を大きくして、ステージの色でうっすら光らせる */
+#app[data-stage][data-stage-art] #road .cell.mid .stone {
+  width: 86%; height: 58%; animation: none;
+  filter: drop-shadow(0 0 6px var(--stage-glow)) drop-shadow(0 3px 3px #00000059);
+}
 #app[data-stage][data-stage-art] #road .lane:not(.targetable) { border-color: transparent; background: none; box-shadow: none; }
-/* 飛び石は、道にぴったり合う画面側のもの（砂漠と同じ石）を、地面の絵の上に並べる（絵の飛び石は道とずれるため） */
-#app[data-stage][data-stage-art] #road .stone { display: block; width: 48%; height: 34%; opacity: .95; filter: sepia(.4) saturate(1.2) brightness(1.05); }
-/* 真ん中のマスだけは、どのステージでも砂漠と同じ石の台（kingdom.css の飛び石の絵）を大きく出す */
-#app[data-stage][data-stage-art] #road .cell.mid .stone { display: block; opacity: .95; filter: sepia(.4) saturate(1.2) brightness(1.05); }
 
 /* 真ん中のマス（魔物・ワールドボスの場所）は、ほかのマスより大きい（js/ui/Renderer.js の --cell-rows と rowCenter） */
 #app #road .cells { grid-template-rows: var(--cell-rows, repeat(var(--cells), 1fr)); }

diff --git a/CLAUDE.md b/CLAUDE.md
@@ -1256,7 +1256,7 @@ STEP 1 は、2人が同じ端末で交互に遊ぶ最小版。数値はすべて
 - 「移動マス−1」（氷）は、滑ると逆の効果になるので入れていない。「溶岩の裂け目噴火」は噴火で表した
 - **選び方**：ふだんは毎試合ランダム。ひとりで遊ぶ・同じ端末の詳細設定（`js/ui/LocalSetup.js`）と、オンラインの部屋主の「ルールを変更」（`setRules` の `stage`。`"random"` かステージのID。`room.settings.stage`、`choices.stages`）で決めたステージも選べる
 - `getState().stage`：`{ id, name, icon, description, element, elementMultiplier }` か `null`
-- 画面：ステージごとに、盤面の景色（`#scenery`）・道・飛び石・城の色味を変える（`css/stage.css`。今はグラデーションと模様で描いた仮の見た目）。背景の絵 `assets/bg/stage-<ステージ>.png`（`darkForest` は `stage-dark-forest.png`）を置いて `assets/asset-manifest.json` に足せば、`js/ui/Renderer.js` の `setStage` が自動でそちらを使う（作り方は `assets/STYLE.md`）。2人のときは、相手の城を大きく（1.35倍）、自分の城を小さく（0.78倍）見せる（奥行き。人間の指示。`css/stage.css`）。背景の絵は草原・古代遺跡・闇の森・氷・溶岩の5枚がある（`assets/bg/stage-*.png`。城と城の間の地面（フィールド）だけの絵で、城はゲームの城のまま（人間の指示）。砂漠はまだ CSS の見た目）。絵があるときは、画面側の道の枠を消し、飛び石は道にぴったり合う画面側のもの（砂漠と同じ石。`ui/kingdom-platform.png`）を地面の絵の上に3列に並べる。真ん中のマスは、どのステージでも大きな石の台（人間の指示）。**真ん中のマス（魔物・のちのワールドボスの場所）は、ほかのマスの `UI_CONFIG.midCellScale`（1.8）倍の高さ**（画面だけ。`js/ui/Renderer.js` の `rowCenter` と `--cell-rows` が同じ比率を使う）。上の「○周目」の前にステージのアイコン。試合の始めにステージの説明をお知らせで出す。噴火の演出
+- 画面：ステージごとに、盤面の景色（`#scenery`）・道・飛び石・城の色味を変える（`css/stage.css`。今はグラデーションと模様で描いた仮の見た目）。背景の絵 `assets/bg/stage-<ステージ>.png`（`darkForest` は `stage-dark-forest.png`）を置いて `assets/asset-manifest.json` に足せば、`js/ui/Renderer.js` の `setStage` が自動でそちらを使う（作り方は `assets/STYLE.md`）。2人のときは、相手の城を大きく（1.35倍）、自分の城を小さく（0.78倍）見せる（奥行き。人間の指示。`css/stage.css`）。背景の絵は草原・古代遺跡・闇の森・氷・溶岩の5枚がある（`assets/bg/stage-*.png`。奥に描かれていた城は消して、空・山・木などの奥の景色と地面だけにした。城はゲームの城のまま（人間の指示）。砂漠はまだ CSS の見た目）。絵があるときは、画面側の道の枠を消し、飛び石は、そのステージの絵から切り出した石（`assets/ui/stone-<ステージ>.png`）を道にぴったり合わせて3列に並べる。真ん中のマスは、同じ石を大きくして、ステージの色でうっすら光らせる（人間の指示）。**真ん中のマス（魔物・のちのワールドボスの場所）は、ほかのマスの `UI_CONFIG.midCellScale`（1.8）倍の高さ**（画面だけ。`js/ui/Renderer.js` の `rowCenter` と `--cell-rows` が同じ比率を使う）。上の「○周目」の前にステージのアイコン。試合の始めにステージの説明をお知らせで出す。噴火の演出
 - シミュレーション：`node tests/sim/run.js` は毎試合ランダムなステージで回す。`--stage lava` で1つに決める、`--no-stages` でステージなし
 - 確かめたこと（`--games 200 --match smart,smart --stage …`）：どのステージも全試合決着。平均手番：草原38・溶岩38・氷35・遺跡33・闇の森39・砂漠36、先攻の勝率49〜53%。CPU の弱い順は変わらない（random に勝つ割合：defensive 10%・rush 13%・smart 84%）
 
